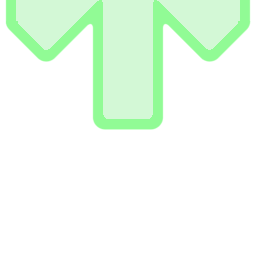
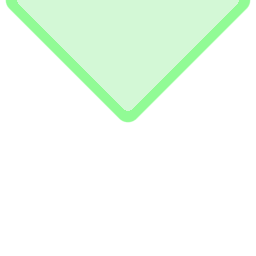
gum wrapper finished

Changed region(s): [[0.0, 0.0, 1.0, 0.5312]]

diff --git a/charm/lib/charm.py b/charm/lib/charm.py
@@ -92,13 +92,14 @@ class GumWrapperNew(Component):
         self._logo_texture = Texture(img_from_path(files(charm.data.images) / "small-logo.png"))
         self._logo_buffer = 20, 16
         self._logo_size = self._logo_texture.width + self._logo_buffer[0], self._logo_texture.height + self._logo_buffer[1]
+        self._loops_per_sec = 0.25
 
         self._wrapper_sprites: SpriteList = SpriteList()
         self._wrapper_sprites.alpha = 128
         self._wrapper_sprites.extend(
             (
                 Sprite(self._logo_texture, center_x=self._logo_size[0] * 0.5, center_y=self._logo_size[1] * 0.5),
-                Sprite(self._logo_texture, center_x=self._logo_size[0] * 1.5, center_y=self._logo_size[1] * 0.5),
+                Sprite(self._logo_texture, center_x=self._logo_size[0] * -0.5, center_y=self._logo_size[1] * 0.5),
                 Sprite(self._logo_texture, center_x=self._logo_size[0] * 0.5, center_y=self._logo_size[1] * 1.5),
                 Sprite(self._logo_texture, center_x=self._logo_size[0] * 1.5, center_y=self._logo_size[1] * 1.5),
             )
@@ -116,12 +117,24 @@ class GumWrapperNew(Component):
         self._wrapper_target: gl.Framebuffer = win.ctx.framebuffer(color_attachments=[self._wrapper_texture])
 
         self._final_render_geometry: gl.Geometry = gl.geometry.quad_2d_fs()
+        with self._wrapper_target.activate() as fbo:
+            fbo.clear()
+            self._win.default_camera.use()
+            self._wrapper_sprites.draw()
+        from PIL.Image import frombytes
+        img = frombytes('RGBA', (self._logo_size[0], self._logo_size[1]*2), data=self._wrapper_texture.read())
+        img.save('debug/test.png')
 
     def on_resize(self, width: int, height: int) -> None:
         pass
 
     def on_update(self, delta_time: float) -> None:
-        pass
+        v = delta_time * self._logo_size[0] * self._loops_per_sec
+        a, b, c, d = self._wrapper_sprites
+        a.center_x = (a.center_x + v - self._logo_size[0]/2.0) % self._logo_size[0] + self._logo_size[0]/2.0
+        b.center_x = a.center_x - self._logo_size[0]
+        c.center_x = (c.center_x - v + self._logo_size[0]/2.0) % self._logo_size[0] - self._logo_size[0]/2.0
+        d.center_x = (c.center_x + self._logo_size[0])
 
     def draw(self) -> None:
         with self._wrapper_target.activate() as fbo:
@@ -129,6 +142,9 @@ class GumWrapperNew(Component):
             self._win.default_camera.use()
             self._wrapper_sprites.draw()
         with self._win.ctx.enabled(self._win.ctx.BLEND):
+            s_pos = self._win.get_location()
+            self._wrapper_shader['offset'] = s_pos[0] - self._screen_origin[0], self._screen_origin[1] - s_pos[1]
+            self._win.ctx.blend_func = self._win.ctx.BLEND_PREMULTIPLIED_ALPHA  # TODO: this is a rough patch correct it
             self._win.default_camera.use()
             self._wrapper_texture.use()
             self._final_render_geometry.render(self._wrapper_shader)

diff --git a/charm/views/title.py b/charm/views/title.py
@@ -36,7 +36,7 @@ class TitleView(DigiView):
         self.goto_switch_time: float | None
         self.fade_volume: float | None
         self.components.register(GumWrapperNew())
-        self.components.register(GumWrapper(size=self.size))
+        # self.components.register(GumWrapper(size=self.size))  # Old GumWrapper
         # Set up main logo
         self.components.register(LogoSprite(self.window))
         self.splash_label = self.components.register(self.generate_splash())
@@ -243,8 +243,8 @@ class WelcomeLabel(Text, Component):
     def draw(self) -> None:
         content_left = self.x - self.content_width // 2
         arcade.draw_polygon_filled([
-            (content_left -  0,                      self.content_height + 10),
-            (content_left + self.content_width -  0, self.content_height + 10),
+            (content_left - 0,                      self.content_height + 10),
+            (content_left + self.content_width - 0, self.content_height + 10),
             (content_left + self.content_width + 20, 0),
             (content_left - 20,                      0)
         ], CharmColors.FADED_PURPLE)

diff --git a/charm/lib/digiwindow.py b/charm/lib/digiwindow.py
@@ -18,6 +18,7 @@ from charm.views.title import TitleView
 
 logger = logging.getLogger("charm")
 
+
 class DigiWindow(Window):
     def __init__(self, size: tuple[int, int], title: str, fps_cap: int):
         super().__init__(*size, title, update_rate=1 / fps_cap, enable_polling=True, resizable=True)
@@ -63,3 +64,6 @@ class DigiWindow(Window):
 
     def current_view(self) -> DigiView | None: # pyright: ignore [reportIncompatibleMethodOverride]
         return cast("DigiView | None", super().current_view)
+
+    def on_move(self, x, y):
+        self.draw(0.0)
